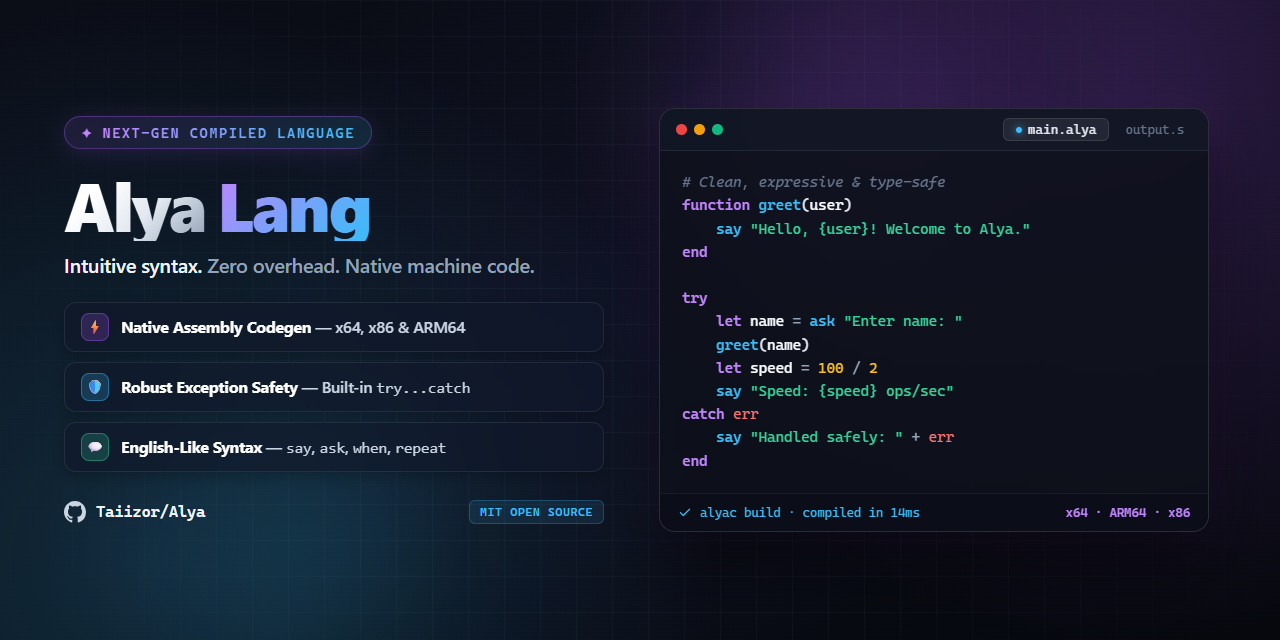
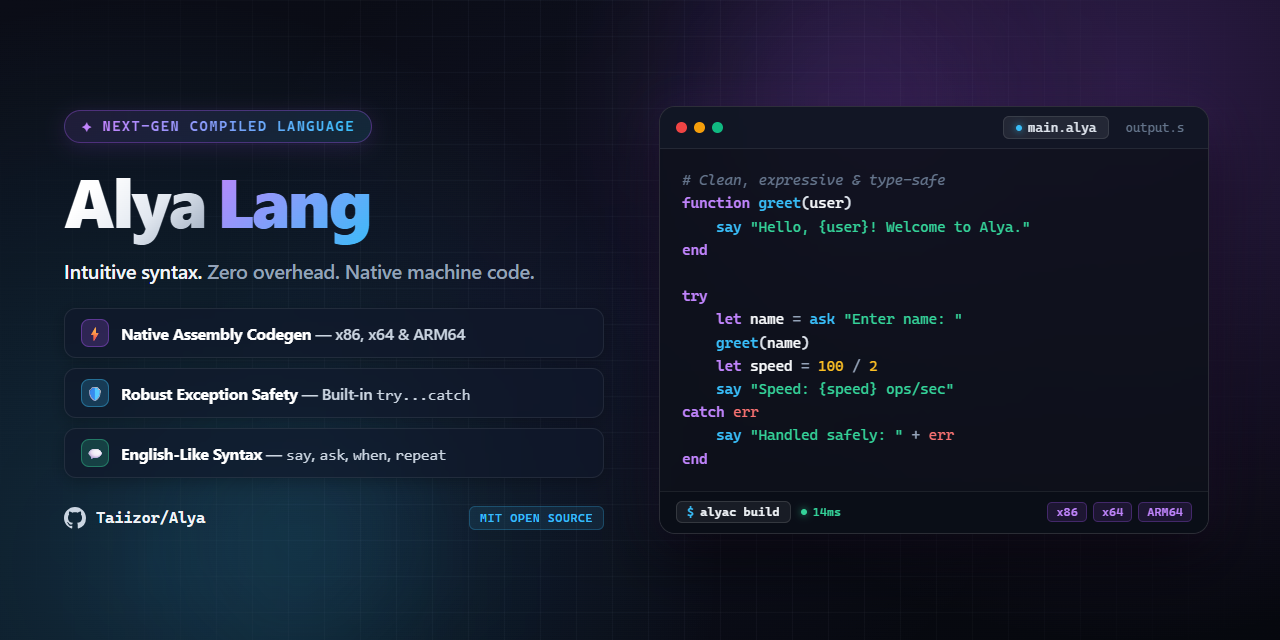
Polish social card branding and status bar
Refines the social preview card’s visual hierarchy and terminal footer styling. The brand title spacing/line-height was adjusted to prevent clipping on gradient text, the build status row was redesigned with clearer command/badge/arch tags, and architecture ordering was normalized to x86, x64, ARM64. The PNG preview was updated to match the HTML changes.

diff --git a/assets/social-preview/social-card.html b/assets/social-preview/social-card.html
@@ -96,24 +96,31 @@
   }
 
   .brand-title {
-    margin-top: 20px;
+    margin-top: 16px;
     font-size: 68px;
     font-weight: 800;
-    line-height: 1.05;
+    line-height: 1.22;
     letter-spacing: -2px;
     display: flex;
     align-items: baseline;
     gap: 12px;
+    padding-bottom: 6px;
   }
   .brand-name {
+    display: inline-block;
     background: linear-gradient(135deg, #ffffff 25%, #e2e8f0 60%, #94a3b8 100%);
     -webkit-background-clip: text;
     -webkit-text-fill-color: transparent;
+    padding-bottom: 14px;
+    margin-bottom: -14px;
   }
   .brand-accent {
+    display: inline-block;
     background: linear-gradient(135deg, #c084fc 0%, #38bdf8 100%);
     -webkit-background-clip: text;
     -webkit-text-fill-color: transparent;
+    padding-bottom: 14px;
+    margin-bottom: -14px;
   }
 
   .tagline {
@@ -305,36 +312,67 @@
   .err { color: #f87171; }
 
   .window-status {
-    height: 38px;
-    padding: 0 18px;
+    height: 42px;
+    padding: 0 16px;
     display: flex;
     align-items: center;
     justify-content: space-between;
-    background: rgba(10, 14, 23, 0.85);
-    border-top: 1px solid rgba(255, 255, 255, 0.06);
+    background: rgba(10, 14, 23, 0.92);
+    border-top: 1px solid rgba(255, 255, 255, 0.08);
     font-family: "Cascadia Code", "JetBrains Mono", Consolas, monospace;
     font-size: 12.5px;
-    color: #64748b;
   }
   .status-left {
     display: flex;
     align-items: center;
-    gap: 8px;
-    color: #38bdf8;
+    gap: 10px;
   }
-  .status-left svg {
-    width: 14px; height: 14px;
-    fill: #38bdf8;
+  .cli-cmd {
+    display: inline-flex;
+    align-items: center;
+    gap: 6px;
+    background: rgba(255, 255, 255, 0.06);
+    border: 1px solid rgba(255, 255, 255, 0.12);
+    padding: 3px 10px;
+    border-radius: 6px;
+    color: #f1f5f9;
+    font-weight: 600;
+    font-size: 12px;
+    letter-spacing: 0.2px;
+  }
+  .cli-cmd .prompt {
+    color: #38bdf8;
+    font-weight: 700;
+  }
+  .build-badge {
+    display: inline-flex;
+    align-items: center;
+    gap: 6px;
+    color: #34d399;
+    font-weight: 600;
+    font-size: 12px;
+  }
+  .badge-dot {
+    width: 6px; height: 6px;
+    border-radius: 50%;
+    background: #34d399;
+    box-shadow: 0 0 8px rgba(52, 211, 153, 0.9);
   }
   .status-right {
     display: flex;
     align-items: center;
-    gap: 12px;
-    color: #94a3b8;
+    gap: 6px;
   }
-  .target-arch {
-    color: #c084fc;
+  .arch-tag {
+    font-family: "Cascadia Code", "JetBrains Mono", Consolas, monospace;
+    font-size: 11.5px;
     font-weight: 600;
+    color: #c084fc;
+    background: rgba(168, 85, 247, 0.12);
+    border: 1px solid rgba(168, 85, 247, 0.28);
+    padding: 2px 8px;
+    border-radius: 5px;
+    letter-spacing: 0.4px;
   }
 </style>
 </head>
@@ -364,7 +402,7 @@
         <div class="features-list">
           <div class="feature-pill">
             <div class="feature-icon-box icon-purple">⚡</div>
-            <div class="feature-text"><b>Native Assembly Codegen</b> — x64, x86 &amp; ARM64</div>
+            <div class="feature-text"><b>Native Assembly Codegen</b> — x86, x64 &amp; ARM64</div>
           </div>
           <div class="feature-pill">
             <div class="feature-icon-box icon-cyan">🛡</div>
@@ -421,11 +459,13 @@
 
           <div class="window-status">
             <div class="status-left">
-              <svg viewBox="0 0 16 16"><path d="M13.78 4.22a.75.75 0 0 1 0 1.06l-7.25 7.25a.75.75 0 0 1-1.06 0L2.22 9.28a.751.751 0 0 1 .018-1.042.751.751 0 0 1 1.042-.018L6 10.94l6.72-6.72a.75.75 0 0 1 1.06 0Z"/></svg>
-              <span>alyac build · compiled in 14ms</span>
+              <span class="cli-cmd"><span class="prompt">$</span> alyac build</span>
+              <span class="build-badge"><span class="badge-dot"></span> 14ms</span>
             </div>
             <div class="status-right">
-              <span class="target-arch">x64 · ARM64 · x86</span>
+              <span class="arch-tag">x86</span>
+              <span class="arch-tag">x64</span>
+              <span class="arch-tag">ARM64</span>
             </div>
           </div>
         </div>
